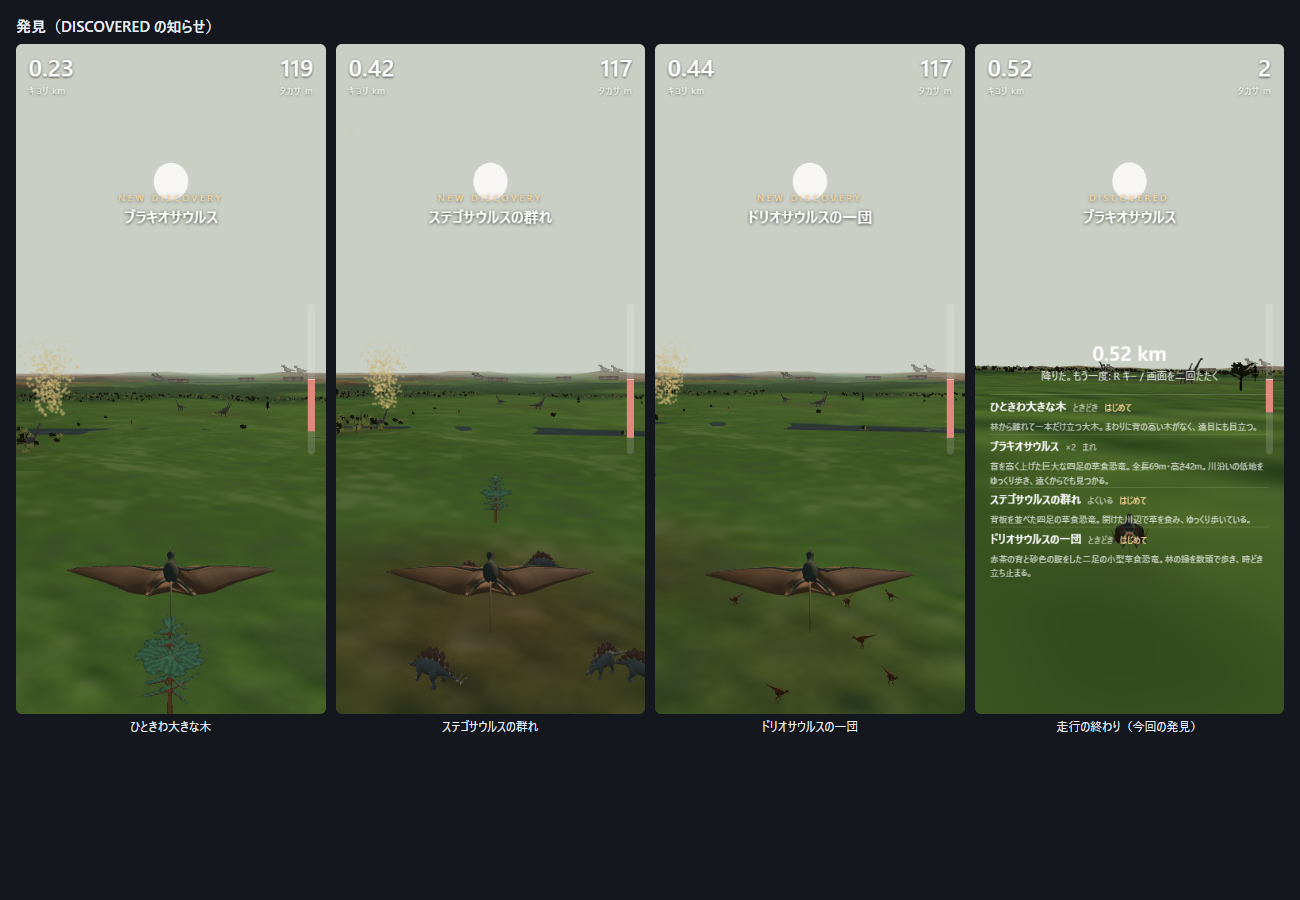
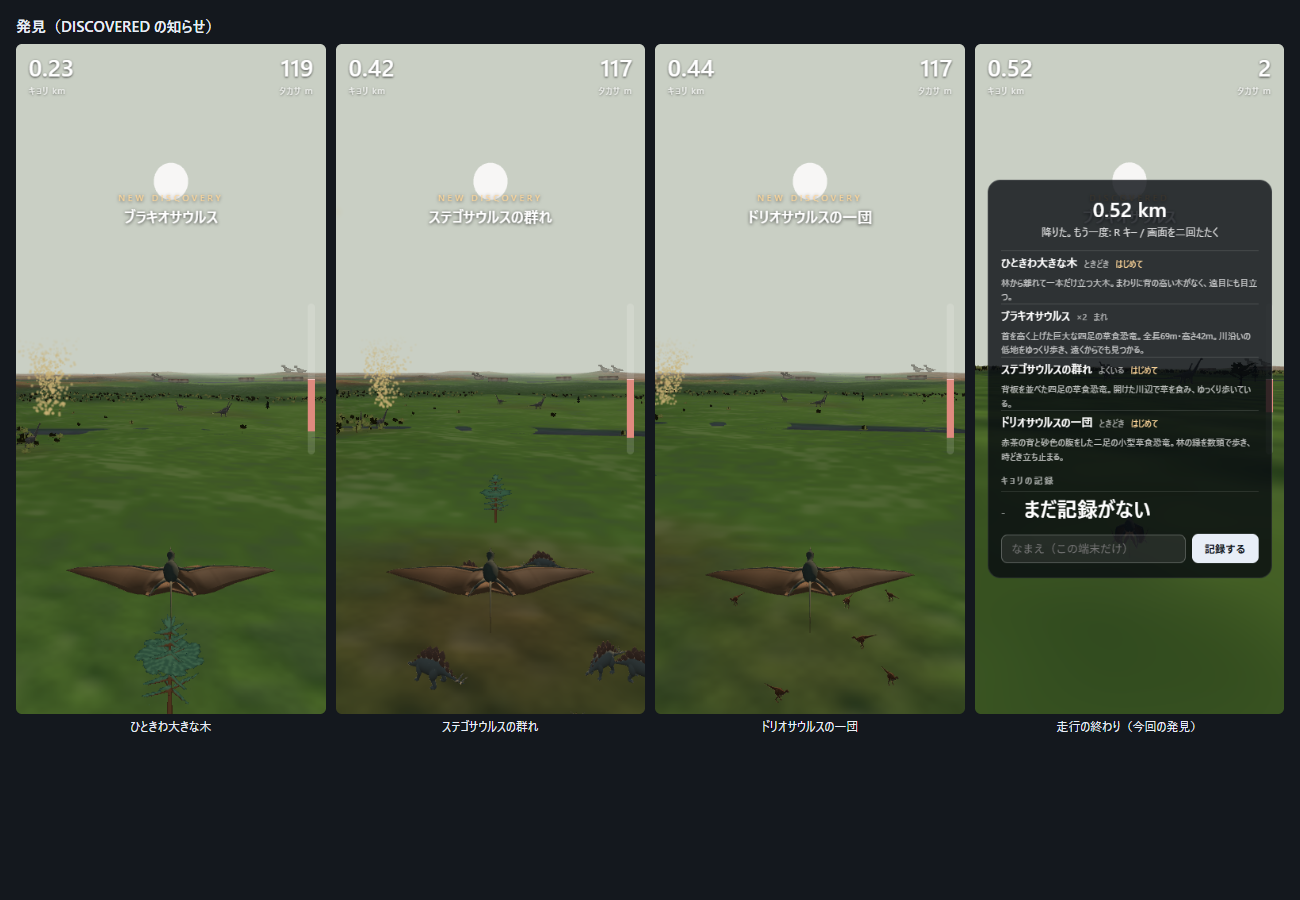
走行の終わりに、名前とキョリを残せるようにした
この端末の中だけの記録(上位10件・距離順)。名前は一度入れたら次から覚えている。
今回の記録は一覧の中で色が変わるので、自分がどこに入ったか分かる。

- 終わりの画面を1枚の板にまとめた。背景に文字が埋もれて読めなかった
- 名前の欄だけ文字を選べるようにし、打っている最中の R キーで
  走行がやり直しにならないようにした(iOSとPCの両方で困る)
- 記録は localStorage。保存できない環境でも遊べるようにしてある

検査 tools/check-records.mjs を追加(保存・並び順・名前の持ち越し・打っている間の誤操作)。
「地面の継ぎ目」の作り直し時間の閾値は 20ms -> 28ms にした。
実測が12.9〜20.5msとぶれる値で、20msだと機械の混み具合で落ちるため。
全17本PASS。

共有のランキング(他の人と比べる版)は、この端末の記録が動いてから。
物理が決定論なので、入力の記録を一緒に送ればサーバー側で再生して検証できる。

diff --git a/index.html b/index.html
@@ -25,6 +25,7 @@
   html,body { height:100%; overflow:hidden; background:#0b0e13; font-family:system-ui,sans-serif; }
   /* 押しっぱなしで操作するので、文字の選択と長押しメニューを出さない(スマホで「コピー/選択部分を検索」が出ていた) */
   html,body,#app,#hud,#msg,#start,canvas { -webkit-user-select:none; user-select:none; -webkit-touch-callout:none; }
+  #nameIn { -webkit-user-select:text; user-select:text; }   /* 名前だけは打てるように */
   #app { position:fixed; inset:0; }
   canvas { display:block; width:100%; height:100%; touch-action:none; }
   #hud { position:fixed; inset:0; pointer-events:none; padding:env(safe-area-inset-top) 16px 16px; }
@@ -38,7 +39,10 @@
            border-radius:5px; background:rgba(255,255,255,.14); overflow:hidden; }
   #varioFill { position:absolute; left:0; right:0; top:50%; height:0; background:#7fe08a; transition:none; }
   #varioZero { position:absolute; left:0; right:0; top:50%; height:1px; background:rgba(255,255,255,.55); }
-  #msg { position:fixed; left:0; right:0; top:44%; text-align:center; color:#fff; pointer-events:none; }
+  /* 走行の終わり。背景に埋もれて読めなかったので、1枚の板にまとめる */
+  #msg { position:fixed; inset:0; display:grid; place-items:center; color:#fff; pointer-events:none; padding:16px; }
+  #msg .panel { pointer-events:auto; width:min(92vw,26rem); max-height:86vh; overflow-y:auto; text-align:center;
+                background:rgba(8,11,16,.8); border:1px solid rgba(255,255,255,.1); border-radius:16px; padding:18px 16px; }
   #msg b { font-size:26px; display:block; }
   #msg span { font-size:13px; opacity:.8; }
   #start { position:fixed; inset:0; display:grid; place-content:center; gap:14px; text-align:center;
@@ -69,6 +73,19 @@
   #foundList .item em { font-size:11px; color:#ffd79a; font-style:normal; }
   #foundList p { font-size:11px; opacity:.72; margin:2px 0 0; line-height:1.6; }
   #foundList .none { font-size:12px; opacity:.6; }
+  /* 記録。名前は一度入れたら次から覚えている */
+  #rec { margin:14px auto 0; max-width:22rem; text-align:left; }
+  #rec h3 { font-size:11px; letter-spacing:.2em; opacity:.6; font-weight:600; margin-bottom:6px; }
+  #rec ol { list-style:none; }
+  #rec li { display:flex; gap:8px; align-items:baseline; padding:4px 0; border-top:1px solid rgba(255,255,255,.12); font-size:13px; }
+  #rec li i { font-style:normal; opacity:.5; width:1.6em; }
+  #rec li b { font-weight:600; flex:1; overflow:hidden; text-overflow:ellipsis; white-space:nowrap; }
+  #rec li span { font-variant-numeric:tabular-nums; opacity:.85; }
+  #rec li.me { color:#ffd79a; }
+  #rec .name { display:flex; gap:8px; margin-top:10px; align-items:center; }
+  #rec input { flex:1; padding:9px 12px; font-size:14px; border-radius:8px; border:1px solid rgba(255,255,255,.25);
+               background:rgba(255,255,255,.08); color:#fff; }
+  #rec .name button { padding:9px 16px; font-size:13px; border:0; border-radius:8px; background:#e8eef7; color:#10151d; font-weight:650; }
   .hidden { display:none !important; }
 </style>
 </head>
@@ -82,7 +99,11 @@
   </div>
   <div id="vario"><div id="varioFill"></div><div id="varioZero"></div></div>
   <div id="found" class="hidden"><span id="foundKind">DISCOVERED</span><b id="foundName"></b></div>
-  <div id="msg" class="hidden"><b id="msgTitle"></b><span id="msgSub"></span><div id="foundList"></div></div>
+  <div id="msg" class="hidden"><div class="panel">
+    <b id="msgTitle"></b><span id="msgSub"></span><div id="foundList"></div>
+    <div id="rec"><h3>キョリの記録</h3><ol id="recList"></ol>
+      <div class="name"><input id="nameIn" type="text" maxlength="12" placeholder="なまえ（この端末だけ）" enterkeyhint="done" />
+      <button id="nameGo" type="button">記録する</button></div></div></div></div>
   <div id="start">
     <h1>翼竜グライダー</h1>
     <p>

diff --git a/src/main.js b/src/main.js
@@ -24,6 +24,7 @@ const ui = {
   dist: el('dist'), alt: el('alt'), fill: el('varioFill'),
   msg: el('msg'), msgTitle: el('msgTitle'), msgSub: el('msgSub'),
   found: el('found'), foundKind: el('foundKind'), foundName: el('foundName'), foundList: el('foundList'),
+  rec: el('rec'), recList: el('recList'), nameIn: el('nameIn'), nameGo: el('nameGo'),
   start: el('start'), go: el('go'),
 };
 
@@ -104,6 +105,43 @@ function hud() {
   ui.fill.style.background = k > 0 ? '#7fe08a' : '#e08a7f';
 }
 
+// ---- キョリの記録(この端末の中だけ。名前は一度入れたら覚えている) ----
+const REC_STORE = 'glide.records', NAME_STORE = 'glide.name', REC_MAX = 10;
+const loadJSON = (k, d) => { try { return JSON.parse(localStorage.getItem(k)) ?? d; } catch (e) { return d; } };
+const saveJSON = (k, v) => { try { localStorage.setItem(k, JSON.stringify(v)); } catch (e) { /* 保存できなくても遊べる */ } };
+let records = loadJSON(REC_STORE, []);
+let myName = (() => { try { return localStorage.getItem(NAME_STORE) || ''; } catch (e) { return ''; } })();
+let pending = null;                       // 今回の走行(まだ名前が付いていない)
+
+const cleanName = s2 => (s2 || '').replace(/[-]/g, '').trim().slice(0, 12);
+
+function putRecord(name) {
+  if (!pending) return;
+  const row = { ...pending, name: cleanName(name) || 'ななし', at: Date.now() };
+  records = [...records, row].sort((a, b) => b.km - a.km).slice(0, REC_MAX);
+  saveJSON(REC_STORE, records);
+  myName = row.name; try { localStorage.setItem(NAME_STORE, myName); } catch (e) { /* 覚えられなくても遊べる */ }
+  pending = null;
+  renderRecords(row.at);
+}
+
+function renderRecords(mark) {
+  ui.recList.innerHTML = records.length
+    ? records.map((r, i) => `<li class="${r.at === mark ? 'me' : ''}"><i>${i + 1}</i><b>${r.name}</b><span>${r.km.toFixed(2)} km</span></li>`).join('')
+    : '<li><i>-</i><b>まだ記録がない</b><span></span></li>';
+  const done = !pending;
+  ui.nameIn.value = pending ? myName : '';
+  ui.nameIn.disabled = done;
+  ui.nameGo.disabled = done;
+  ui.nameGo.textContent = done ? '記録した' : '記録する';
+}
+
+ui.nameGo.addEventListener('click', () => putRecord(ui.nameIn.value));
+ui.nameIn.addEventListener('keydown', e => {
+  e.stopPropagation();                    // 名前を打っている間は R キーでやり直しにしない
+  if (e.key === 'Enter') { putRecord(ui.nameIn.value); ui.nameIn.blur(); }
+});
+
 function finish() {
   ended = true; running = false;
   vario.stop();
@@ -111,6 +149,8 @@ function finish() {
   ui.msgSub.textContent = sunlight(glider.time) <= 0.02
     ? '日が暮れて、空気が上がらなくなった' : '降りた。もう一度: R キー / 画面を二回たたく';
   renderFoundList();
+  pending = { km: Math.max(0, glider.best) / 1000, found: found.length, seed: SEED };
+  renderRecords();
   // 着地の動きを見せてから記録を出す(やり直しはすぐ効く)
   const shownFor = glider;
   setTimeout(() => { if (ended && glider === shownFor) ui.msg.classList.remove('hidden'); }, 2200);
@@ -124,7 +164,7 @@ function reset() {
   ended = false; running = true;
   ui.msg.classList.add('hidden');
 }
-addEventListener('keydown', e => { if ((e.key === 'r' || e.key === 'R') && ended) reset(); });
+addEventListener('keydown', e => { if ((e.key === 'r' || e.key === 'R') && ended && document.activeElement !== ui.nameIn) reset(); });
 cv.addEventListener('dblclick', () => { if (ended) reset(); });
 
 // ---- 発見 ----

diff --git a/README.md b/README.md
@@ -39,6 +39,7 @@ npm run dev     # http://localhost:8141
 - **低く飛ぶほど沈みにくい**。乾いて開けた地面のすぐ上には暖まった空気の層がある（`TUNE.warmK`）。
   高さ25mで正味-0.32 m/s（ほぼ保てる）、60mで-1.69、120mで-2.54（中くらいの高さは元のまま）。日が暮れると消える
 - 日が傾くと空気は上がらなくなる。降りたところが記録
+- 走行の終わりに**名前とキョリを残せる**（この端末の中だけ・上位10件）。名前は次から覚えている
 - `?seed=17` で同じ地形を再現。`R` またはダブルタップでやり直し
 
 ## なぜこの形になったか（測って決めた）
